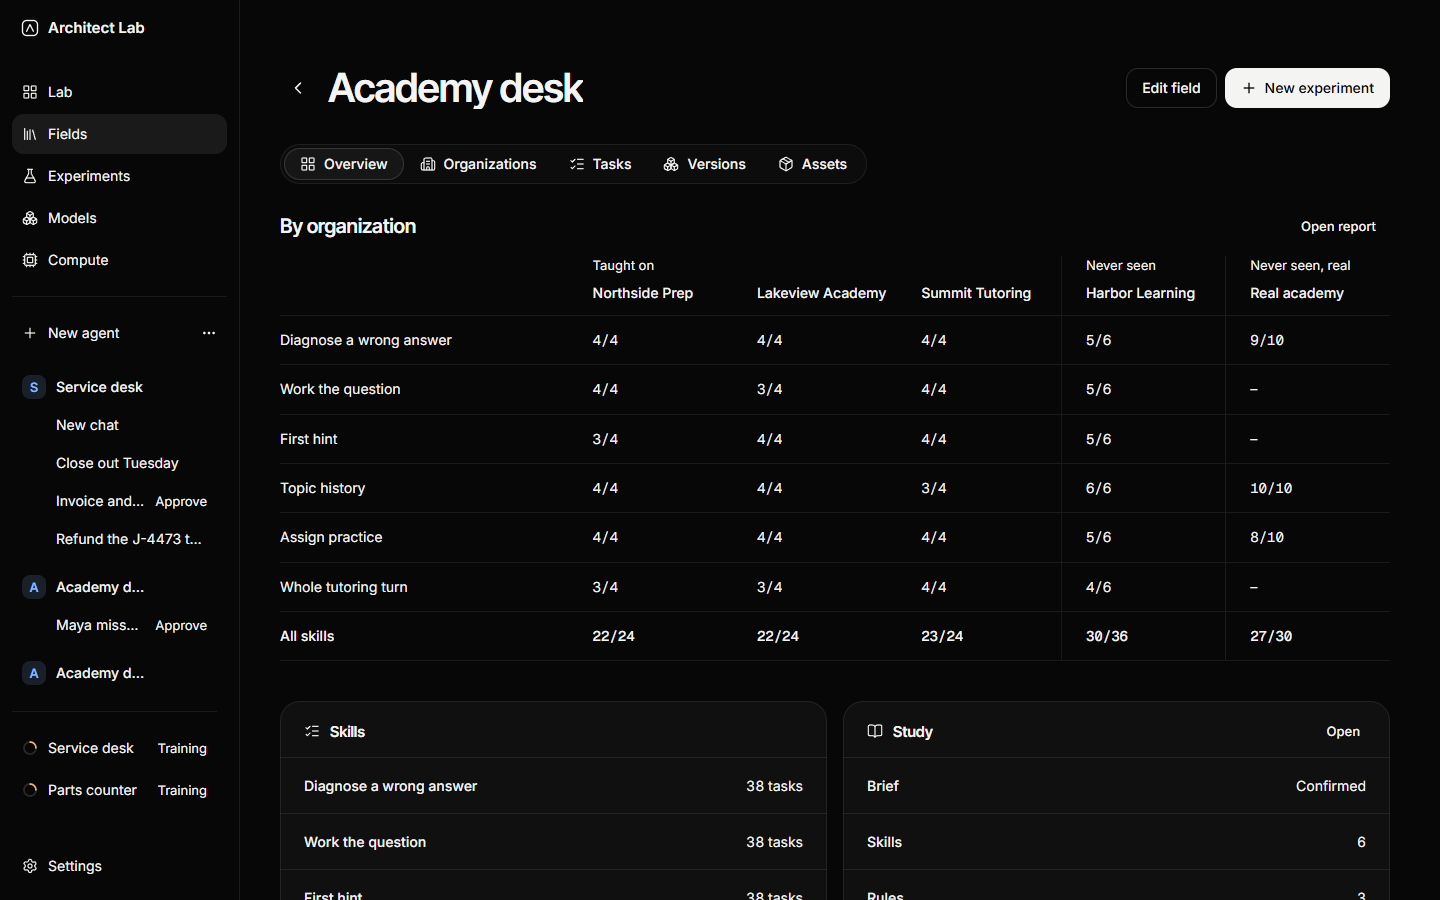
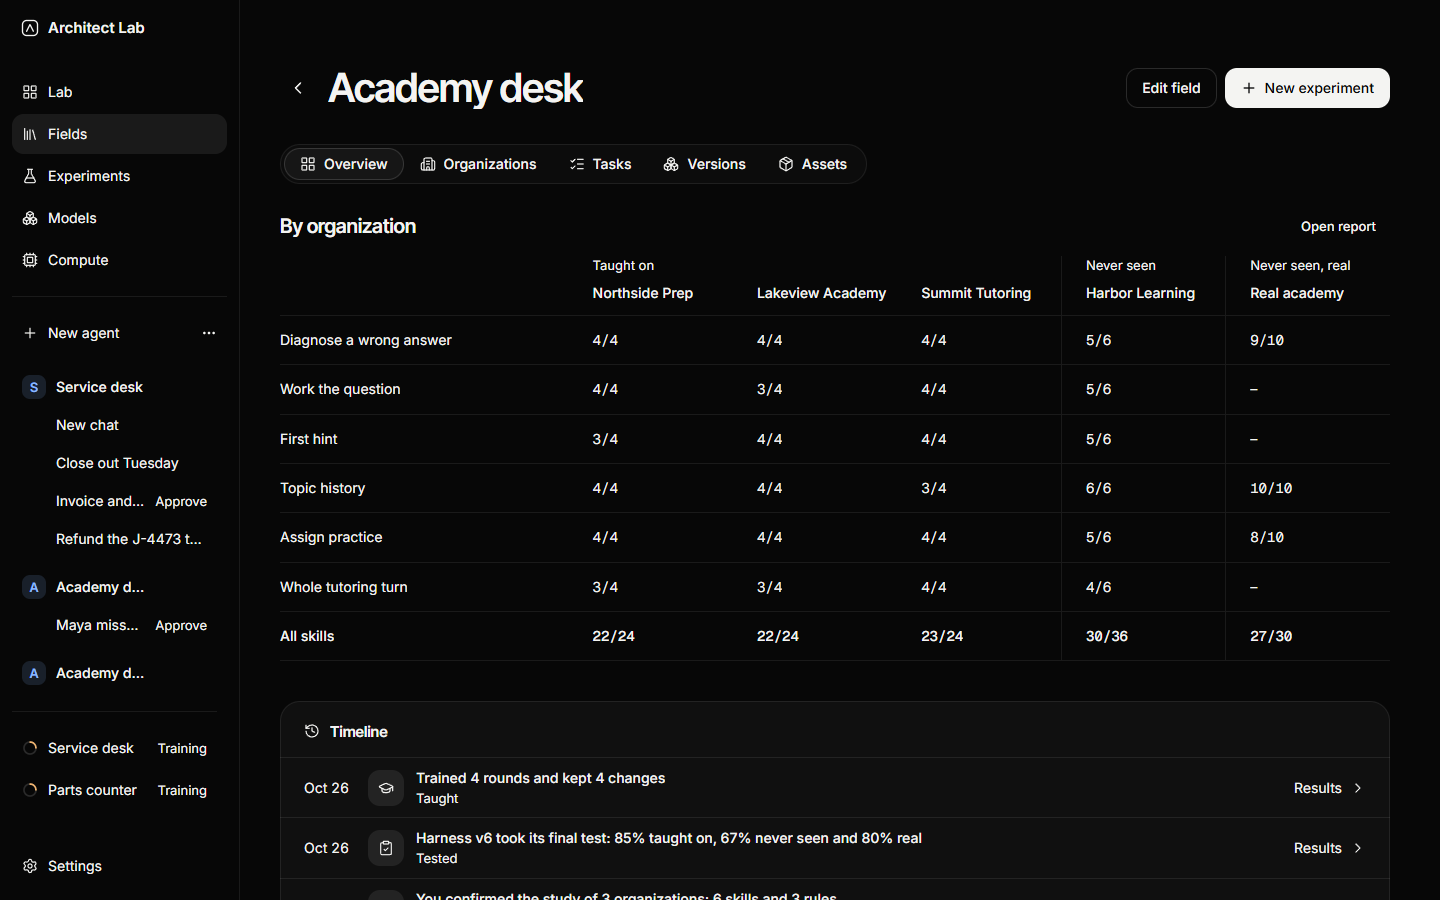
test(e2e): read a field's timeline against the stand-in engine and capture it

diff --git a/apps/desktop/e2e/field-timeline.spec.ts b/apps/desktop/e2e/field-timeline.spec.ts
@@ -1,0 +1,254 @@
+import { mkdir } from 'node:fs/promises';
+import { join } from 'node:path';
+import { fileURLToPath } from 'node:url';
+import { expect, test, type Page } from '@playwright/test';
+import type { Qualification, ReportCard, Run } from '@architect/shared';
+import { goTo, launchApp, settle, updateSettings, type LaunchedApp } from './app';
+import { stubEngine } from './fixtures';
+import { ACADEMY_DESK_CERTIFICATE } from './fixtures-certify';
+import { FIELD_REPORT } from './fixtures-field';
+import {
+  ACADEMY_DESK_ASSETS,
+  ACADEMY_DESK_FIELD,
+  ACADEMY_DESK_PLAN,
+  FIELDS,
+  stubFields,
+} from './fixtures-fields';
+import { stubByKey, stubRecorded } from './fixtures-flow';
+import { ACADEMY_DESK_ID, LAB } from './fixtures-lab';
+import { installModelsFake, MODEL_VERSIONS } from './fixtures-models';
+import { at, makeRun } from './story';
+
+/*
+ * A field's life as one timeline on its Overview (decision 091), against the stand-in engine:
+ * Academy desk studied, taught twice, each version given its final test, the earlier one
+ * certified, the best one tested on an academy added later and beside a model trained elsewhere,
+ * an experiment running and the field exported in this session. Each row leads to the place that
+ * holds it, and the one thing missing, a certificate for the best version, closes the line.
+ */
+
+const OUT_DIR = fileURLToPath(new URL('../../../docs/screenshots/', import.meta.url));
+const SIZE = { width: 1440, height: 900 };
+const EXPORT_DIR = 'C:\\Users\\dana\\Exports\\academy-desk';
+
+test.describe.configure({ mode: 'serial' });
+
+let launched: LaunchedApp;
+let page: Page;
+
+const run = (id: string, createdAt: string, endedAt: string, version: number, rounds: number) =>
+  makeRun({
+    id,
+    jobId: LAB.academyDeskJob,
+    status: 'finished',
+    phase: 'done',
+    createdAt,
+    updatedAt: endedAt,
+    endedAt,
+    currentVersion: version,
+    totals: { ...makeRun({}).totals, rounds },
+    ...(id === LAB.academyDeskRun ? { graduateId: ACADEMY_DESK_ID } : {}),
+  });
+
+const RUNS: Run[] = [
+  run(LAB.academyDeskRun, at(-600), at(110), 9, 7),
+  run(FIELDS.earlierRun, at(-2_800), at(-1_500), 6, 5),
+];
+
+const BEST: ReportCard = {
+  ...FIELD_REPORT,
+  jobId: LAB.academyDeskJob,
+  runId: LAB.academyDeskRun,
+  name: 'Academy desk',
+  createdAt: at(120),
+};
+
+/** The earlier version, one fewer pass at each organization, certified when it was tested. */
+const EARLIER: ReportCard = {
+  ...FIELD_REPORT,
+  jobId: LAB.academyDeskJob,
+  runId: FIELDS.earlierRun,
+  createdAt: at(-1_440),
+  test: {
+    ...FIELD_REPORT.test,
+    score: { pass: FIELD_REPORT.test.score.pass - 6, total: FIELD_REPORT.test.score.total },
+    perOrg: FIELD_REPORT.test.perOrg?.map((row) => ({ ...row, pass: Math.max(0, row.pass - 1) })),
+  },
+  certificate: ACADEMY_DESK_CERTIFICATE,
+};
+
+const TRAINED_ELSEWHERE: Qualification = {
+  id: 'qlf_1',
+  runId: LAB.academyDeskRun,
+  jobId: LAB.academyDeskJob,
+  harnessVersion: 9,
+  model: 'academy-desk-sft-8b',
+  baseUrl: 'http://127.0.0.1:8080/v1',
+  status: 'finished',
+  card: BEST,
+  startedAt: at(3_600),
+  endedAt: at(3_700),
+};
+
+async function stubTimeline(): Promise<void> {
+  await installModelsFake(launched.app);
+  await stubFields(launched.app);
+  await stubByKey(launched.app, 'graduates:versions', {
+    ...MODEL_VERSIONS,
+    [ACADEMY_DESK_ID]: (MODEL_VERSIONS[ACADEMY_DESK_ID] ?? []).map((version) =>
+      version.version === 2 ? { ...version, runId: LAB.academyDeskRun } : version,
+    ),
+  });
+  await stubByKey(launched.app, 'runs:list', { [LAB.academyDeskJob]: RUNS });
+  await stubByKey(launched.app, 'reports:get', {
+    [LAB.academyDeskRun]: BEST,
+    [FIELDS.earlierRun]: EARLIER,
+  });
+  await stubByKey(launched.app, 'jobs:taskPlan', {
+    [LAB.academyDeskJob]: {
+      ...ACADEMY_DESK_PLAN,
+      study: { ...ACADEMY_DESK_PLAN.study, confirmedAt: at(-2_880) },
+    },
+  });
+  await stubByKey(launched.app, 'jobs:field', {
+    [LAB.academyDeskJob]: {
+      ...ACADEMY_DESK_FIELD,
+      qualifications: [
+        {
+          runId: LAB.academyDeskRun,
+          org: 'Maple Grove Academy',
+          status: 'finished',
+          startedAt: at(3_500),
+          endedAt: at(3_560),
+          score: { pass: 25, total: 30 },
+        },
+      ],
+    },
+  });
+  await stubByKey(launched.app, 'runs:qualifications', {
+    [LAB.academyDeskJob]: [TRAINED_ELSEWHERE],
+  });
+}
+
+test.beforeAll(async () => {
+  launched = await launchApp();
+  page = launched.page;
+  const visible = await launched.app.evaluate(({ BrowserWindow }, size) => {
+    const [main] = BrowserWindow.getAllWindows();
+    if (!main) throw new Error('No window');
+    main.setContentSize(size.width, size.height);
+    return main.isVisible();
+  }, SIZE);
+  expect(visible).toBe(false);
+  await mkdir(OUT_DIR, { recursive: true });
+  await updateSettings(page, { onboarded: true, edition: 'lab' });
+  await stubTimeline();
+});
+
+test.afterAll(async () => {
+  await launched?.close();
+});
+
+const timeline = () => page.getByRole('list', { name: 'Timeline' });
+const entries = () => timeline().getByRole('listitem');
+
+test("tells the field's life oldest first, from its records, and ends on the one thing missing", async () => {
+  await page.reload();
+  await page.waitForLoadState('domcontentloaded');
+  await goTo(page, `/fields/${LAB.academyDeskJob}`);
+
+  // The export is this session's: written from Assets, then read back on the Overview.
+  await page.getByRole('tab', { name: 'Assets' }).click();
+  await stubEngine(launched.app, { 'files:pick': [EXPORT_DIR] });
+  await stubRecorded(launched.app, 'jobs:exportField', ACADEMY_DESK_ASSETS);
+  await page.getByRole('button', { name: 'Export' }).click();
+  await expect(page.getByText('Field exported', { exact: true })).toBeVisible();
+  await expect(page.getByText('Field exported', { exact: true })).toHaveCount(0, {
+    timeout: 20_000,
+  });
+  await page.getByRole('tab', { name: 'Overview' }).click();
+
+  await expect(entries()).toHaveCount(11);
+  const texts = await entries().allInnerTexts();
+  // An entry reads its date, its sentence, its stage and its place; the next step has no date.
+  const rows = texts
+    .map((text) => text.split('\n').filter(Boolean))
+    .map((line) => (line.length === 4 ? line.slice(1) : line));
+  const sentences = rows.map((row) => row[0]);
+  expect(sentences).toEqual([
+    'You confirmed the study of 3 organizations: 6 skills and 3 rules',
+    expect.stringMatching(/^Trained 5 rounds and kept \d+ changes?$/),
+    expect.stringMatching(
+      /^Harness v6 took its final test: \d+% taught on, \d+% never seen and \d+% real$/,
+    ),
+    'Harness v6 was certified: wrong on at most 8% of the answers it gives, and it held on 1 of the 2 organizations it never saw',
+    expect.stringMatching(/^Trained 7 rounds, kept \d+ changes? and found \d+ counterexamples?$/),
+    expect.stringMatching(
+      /^Academy desk v2 took its final test: \d+% taught on, 83% never seen and 90% real$/,
+    ),
+    'Comparing 3 arms in “Targeted against one-shot draft”',
+    'Academy desk v2 was tested on Maple Grove Academy, added later and never seen: 83%',
+    expect.stringMatching(
+      /^academy-desk-sft-8b, trained elsewhere, took the final test with harness v9:/,
+    ),
+    "Exported the field's training examples to …\\Exports\\academy-desk",
+    'Certify the best version',
+  ]);
+  expect(rows.map((row) => row[1])).toEqual([
+    'Studied',
+    'Taught',
+    'Tested',
+    'Certified',
+    'Taught',
+    'Tested',
+    'Compared',
+    'Tested',
+    'Tested',
+    'Exported',
+    'Next step',
+  ]);
+  expect(rows.map((row) => row[2])).toEqual([
+    'Study',
+    'Results',
+    'Results',
+    'Results',
+    'Results',
+    'Results',
+    'Experiments',
+    'Organizations',
+    'Compute',
+    'Compute',
+    'Models',
+  ]);
+
+  await page
+    .getByRole('region', { name: 'Timeline' })
+    .evaluate((element) => element.scrollIntoView({ block: 'center' }));
+  await page.mouse.move(0, 0);
+  await settle(page);
+  await page.screenshot({
+    path: join(OUT_DIR, 'field-timeline-dark.png'),
+    animations: 'disabled',
+    timeout: 15_000,
+  });
+});
+
+test('each entry leads to the place that holds it', async () => {
+  const open = async (index: number, url: RegExp) => {
+    await goTo(page, `/fields/${LAB.academyDeskJob}`);
+    await entries().nth(index).getByRole('button').click();
+    await expect(page).toHaveURL(url);
+  };
+  await open(0, new RegExp(`#/jobs/${LAB.academyDeskJob}/define$`));
+  await open(2, new RegExp(`#/runs/${FIELDS.earlierRun}/report$`));
+  await open(6, /#\/experiments\/cmp_targeted$/);
+  await open(8, /#\/compute$/);
+  await open(10, /#\/models\/.+/);
+
+  await goTo(page, `/fields/${LAB.academyDeskJob}`);
+  await entries().nth(7).getByRole('button').click();
+  await expect(page.getByRole('tab', { name: 'Organizations' })).toHaveAttribute(
+    'aria-selected',
+    'true',
+  );
+});

diff --git a/apps/desktop/e2e/fixtures-fields.ts b/apps/desktop/e2e/fixtures-fields.ts
@@ -11,7 +11,8 @@ import type { ElectronApplication } from '@playwright/test';
 import { ACADEMY_DESK_COUNTEREXAMPLES } from './fixtures-counterexamples';
 import { FIELD_ORGS, FIELD_REPORT } from './fixtures-field';
 import { stubByKey, taskPlan } from './fixtures-flow';
-import { LAB, LAB_JOBS, ACADEMY_DESK_ID, stubLab } from './fixtures-lab';
+import { LAB, LAB_AGENTS, LAB_JOBS, ACADEMY_DESK_ID, stubLab } from './fixtures-lab';
+import { MODEL_VERSIONS } from './fixtures-models';
 import { at, makeRun, storyReport } from './story';
 
 /*
@@ -249,6 +250,19 @@ export async function stubFields(app: ElectronApplication): Promise<void> {
     ),
   });
   await stubByKey(app, 'jobs:fieldAssets', { [LAB.academyDeskJob]: ACADEMY_DESK_ASSETS });
+  // The timeline's reads: each agent's versions, none certified after the fact, and no model
+  // trained elsewhere qualified on any field.
+  await stubByKey(app, 'graduates:versions', MODEL_VERSIONS);
+  await stubByKey(
+    app,
+    'graduates:certifications',
+    Object.fromEntries(LAB_AGENTS.map((agent) => [agent.id, []])),
+  );
+  await stubByKey(
+    app,
+    'runs:qualifications',
+    Object.fromEntries(LAB_JOBS.map((job) => [job.id, []])),
+  );
   await stubByKey(
     app,
     'mentoring:fieldCounterexamples',
